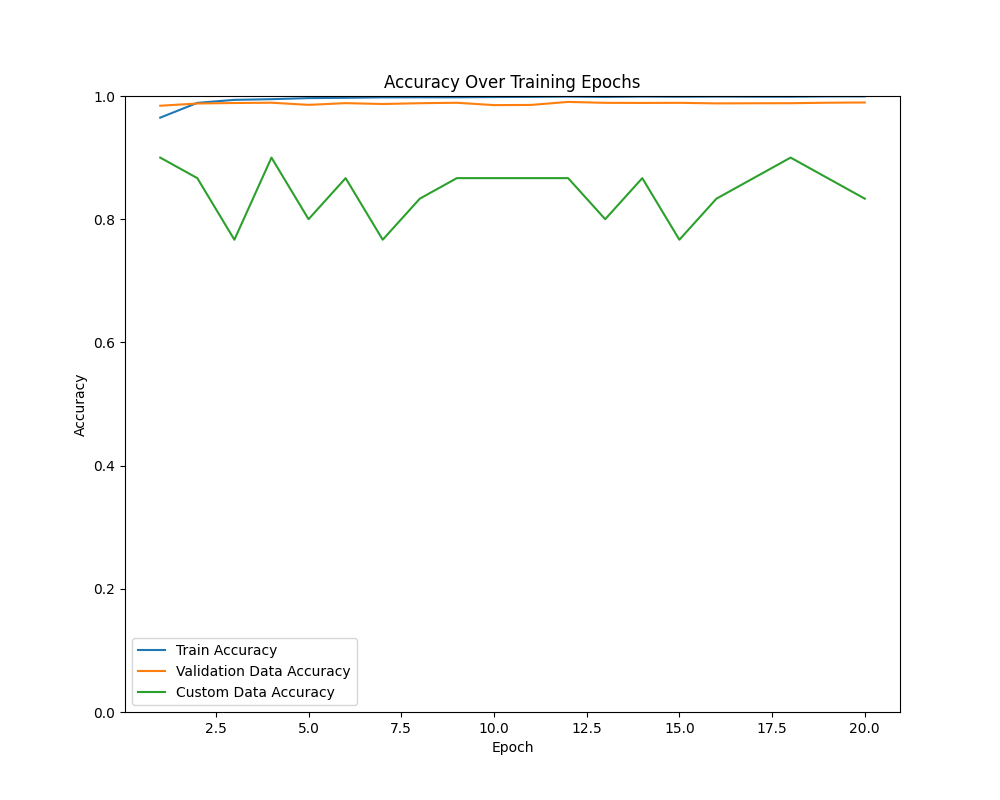
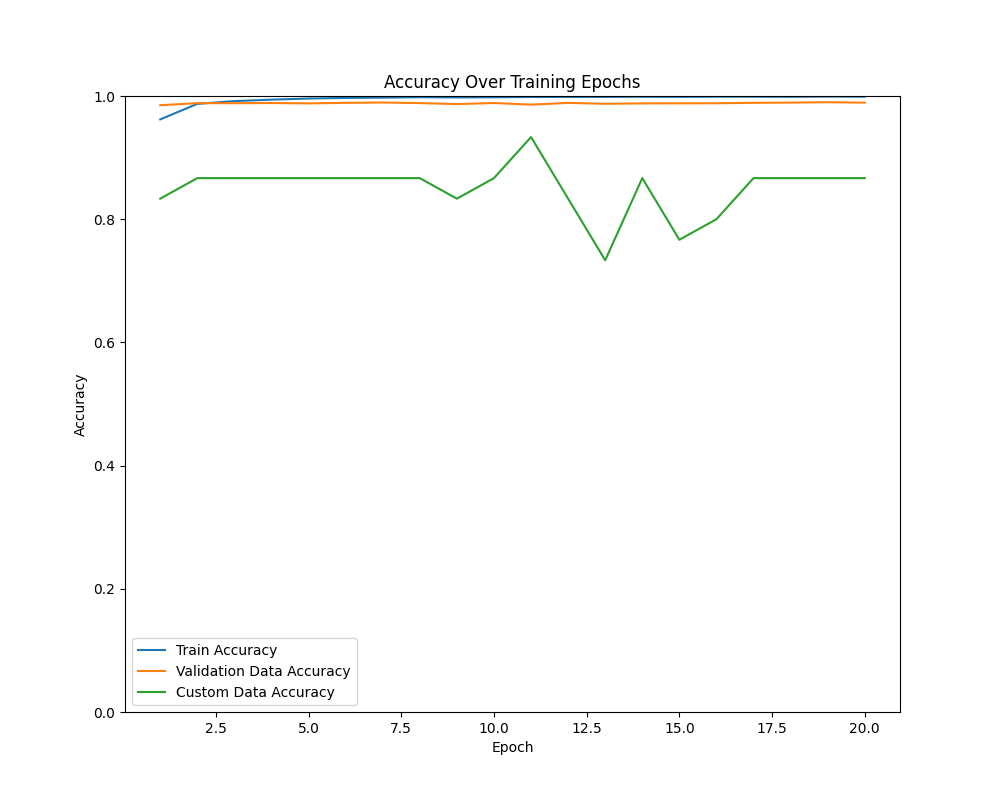
saving

diff --git a/Sem4/AI/neural/compile.py b/Sem4/AI/neural/compile.py
@@ -6,7 +6,7 @@ tf.random.set_seed(279679)
 model = tf.keras.models.Sequential([
 
     # scans image with 32 filters of size 3x3
-    tf.keras.layers.Conv2D(32, (3, 3), activation='relu', input_shape=(28, 28, 1)),
+    tf.keras.layers.Conv2D(64, (3, 3), activation='relu', input_shape=(28, 28, 1)),
 
     # downsamples the image (bochen)
     tf.keras.layers.MaxPooling2D((2, 2)),
@@ -19,7 +19,7 @@ model = tf.keras.models.Sequential([
     tf.keras.layers.Flatten(),
 
     # final interpretation layer
-    tf.keras.layers.Dense(128, activation='relu'),
+    # tf.keras.layers.Dense(128, activation='relu'),
     tf.keras.layers.Dense(10, activation='softmax')
 ])
 
